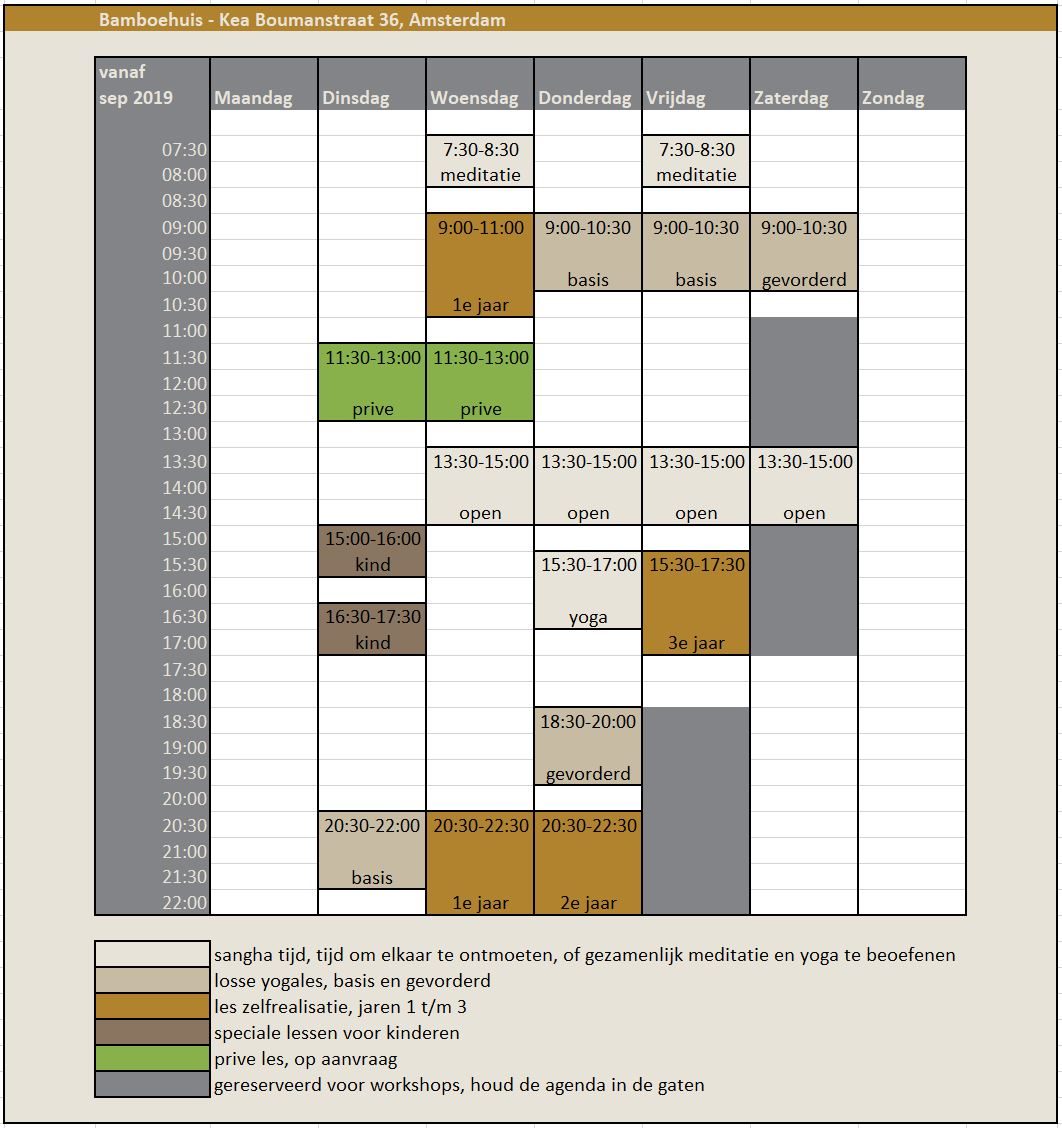
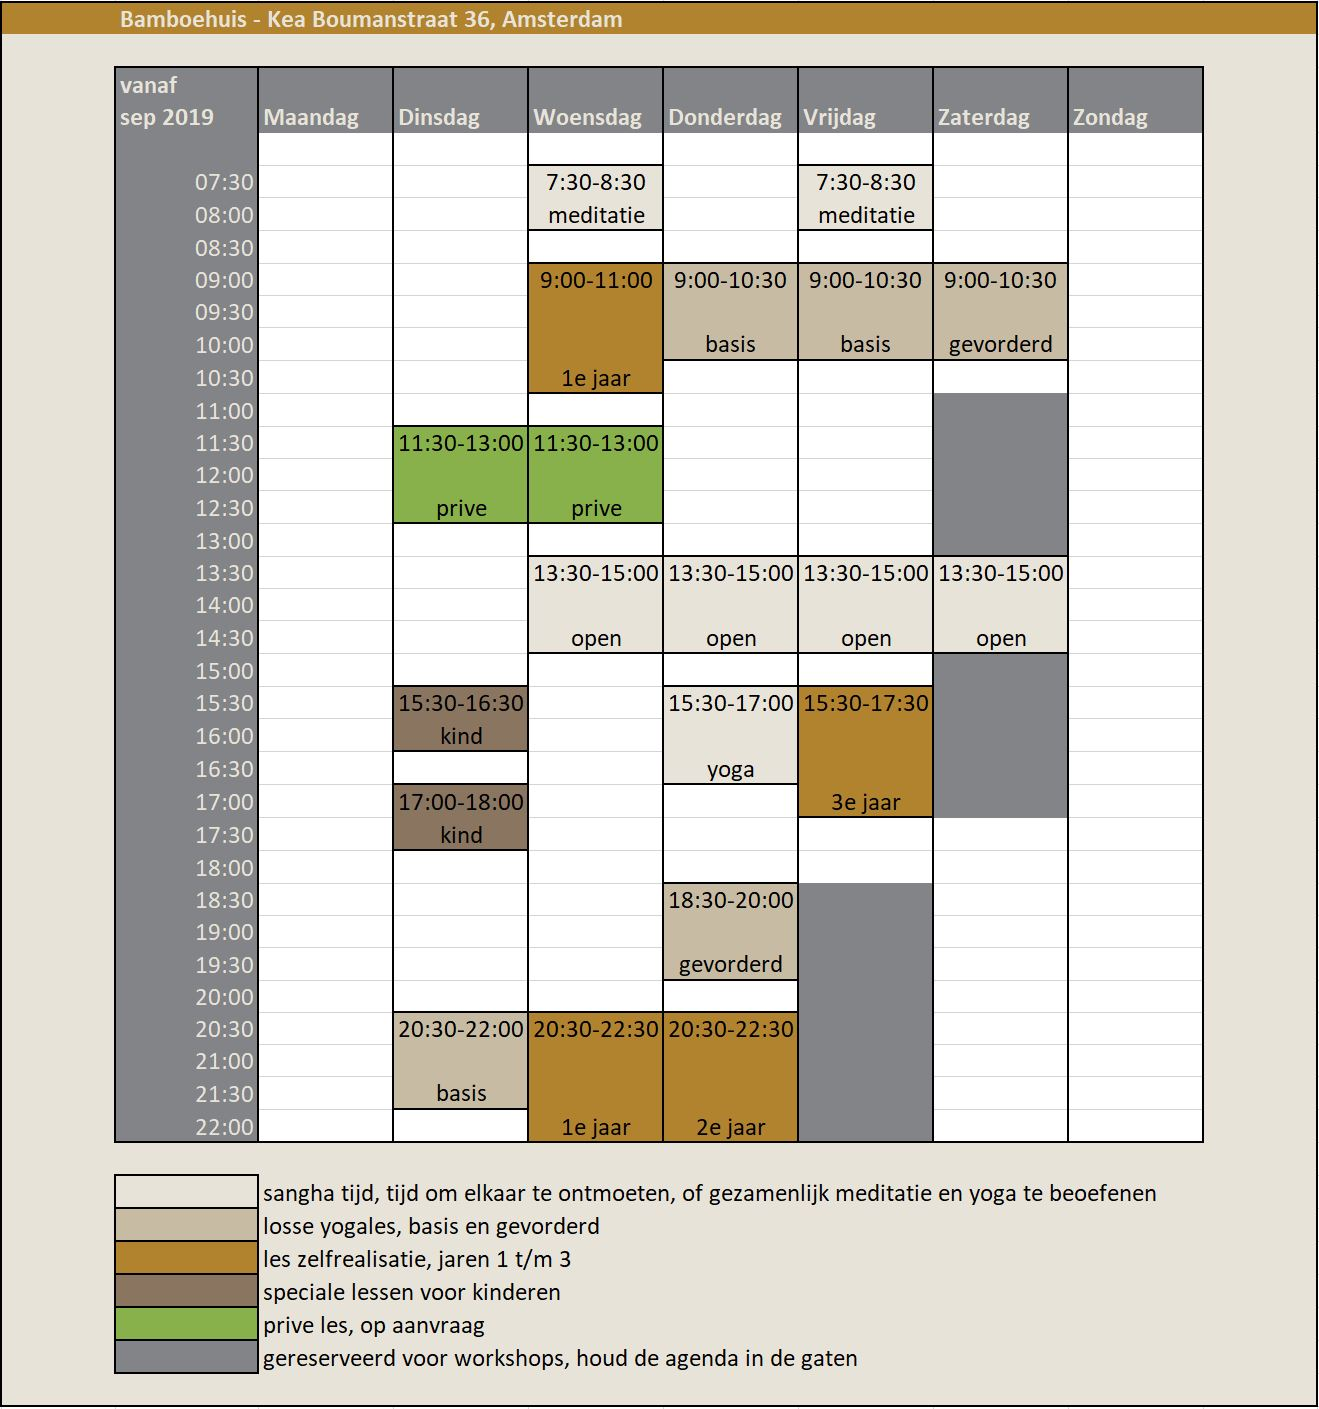
wijzige van tijden kinderyoga

diff --git a/losseyogalessen.html b/losseyogalessen.html
@@ -234,8 +234,10 @@ Haar yogameester Śri Yogācārya Ajīta Mahārāja en vele andere grootmeesters
                         <img src="img/losseyogalessen/b2.jpg" alt="" style="padding-bottom:120px;">
                         <h3>Kosten</h3>
                         <p>Een Yoga les van 90 minuten kost €15,00.
-                        </br>
-                        Je ontvangt maandelijks een factuur voor de lessen waaraan je hebt deelgenomen.</p>
+                        <br/>
+                        Je ontvangt maandelijks een factuur voor de lessen waaraan je hebt deelgenomen.
+                        </p>
+                        <p>Als je deze lessen volgt kun je gratis deelnemen aan de woensdag- en vrijdagochtend meditatie en de beoefening van yogahoudingen op donderdagmiddag.</p>
                        <!-- <a href="#" class="fold-link">Read More</a>-->
                     </div>
                 </div>  <!-- col-sm-6  -->

diff --git a/kinderyoga.html b/kinderyoga.html
@@ -208,7 +208,7 @@ Voordat je aan je eerste les begint ontmoet ik jou en je ouders graag persoonlij
                         <img src="img/lessenzelfrealisatie/b2.jpg" alt="" style="padding-bottom:120px;">
                        <h3>Kosten</h3>
                         
-                        <p>Een yoga kinderles van 5 kwartier, kost 10 euro per les. Je ontvangt aan het eind van de maand een factuur voor jouw aantal deelgenomen lessen. Je kunt je aanmelden via deze website of kom langs in het Bamboehuis. </p>
+                        <p>Een yoga kinderles van één uur kost 10 euro per les. Je ontvangt aan het eind van de maand een factuur voor jouw aantal deelgenomen lessen. Je kunt je aanmelden via deze website of kom langs in het Bamboehuis. </p>
                        <!-- <a href="#" class="fold-link">Read More</a>-->
                    </div>
                 </div>  <!-- col-sm-6  -->

diff --git a/lessenzelfrealisatie.html b/lessenzelfrealisatie.html
@@ -272,6 +272,10 @@ Aansluitend worden er nog twee themalessen gegeven die een open karakter hebben.
                         </p>
                     
                         <p>De prijs van een les komt overeen met 12,50 euro per uur, inclusief btw. Je ontvangt een factuur voor de thema’s waar je je voor inschrijft.</p>
+                        
+                        <p>Na de 10 lessen zijn er twee gratis zelfstudielessen, voordat een volgend thema begint.</p>
+                        
+                        <p>Als je deze lessen volgt kun je ook gratis deelnemen aan de woensdag- en vrijdagochtend meditatie en de beoefening van yogahoudingen op donderdagmiddag.</p>
                         <br clear="left"/>
 
                        <!-- <a href="#" class="fold-link">Read More</a>-->

diff --git a/index.html b/index.html
@@ -115,19 +115,19 @@ De agenda voor de komende periode.
 </tr>
 <tr class="even">
 	<td class="left">ma 2 - zo 8 sep</td>
-	<td class="right">Volgens schema</td>
+	<td class="right">Volgens schema, kinderyoga start 8 oktober</td>
 </tr>
 <tr class="odd">
 	<td class="left">ma 9 - zo 15 sep</td>
-	<td class="right">Volgens schema</td>
+	<td class="right">Volgens schema, kinderyoga start 8 oktober</td>
 </tr>
 <tr class="even">
 	<td class="left">ma 16 - zo 22 sep</td>
-	<td class="right">Volgens schema</td>
+	<td class="right">Volgens schema, kinderyoga start 8 oktober</td>
 </tr>
 <tr class="odd">
 	<td class="left">ma 23 - zo 29 sep</td>
-	<td class="right">Volgens schema</td>
+	<td class="right">Volgens schema, kinderyoga start 8 oktober</td>
 </tr></table>
 </p>
                 </div>
